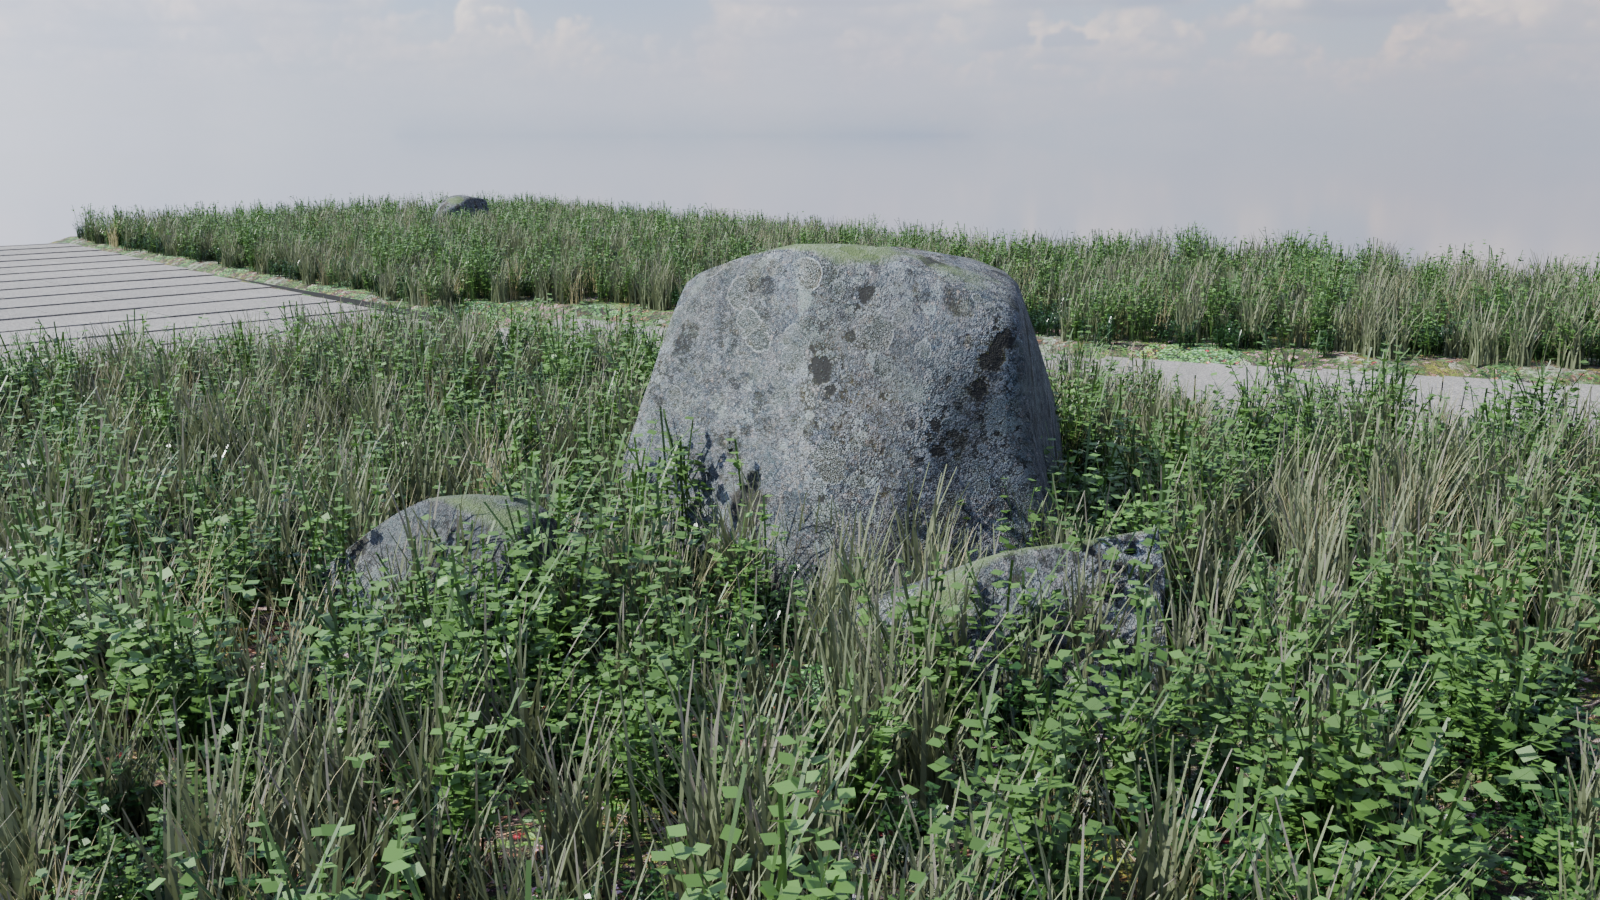
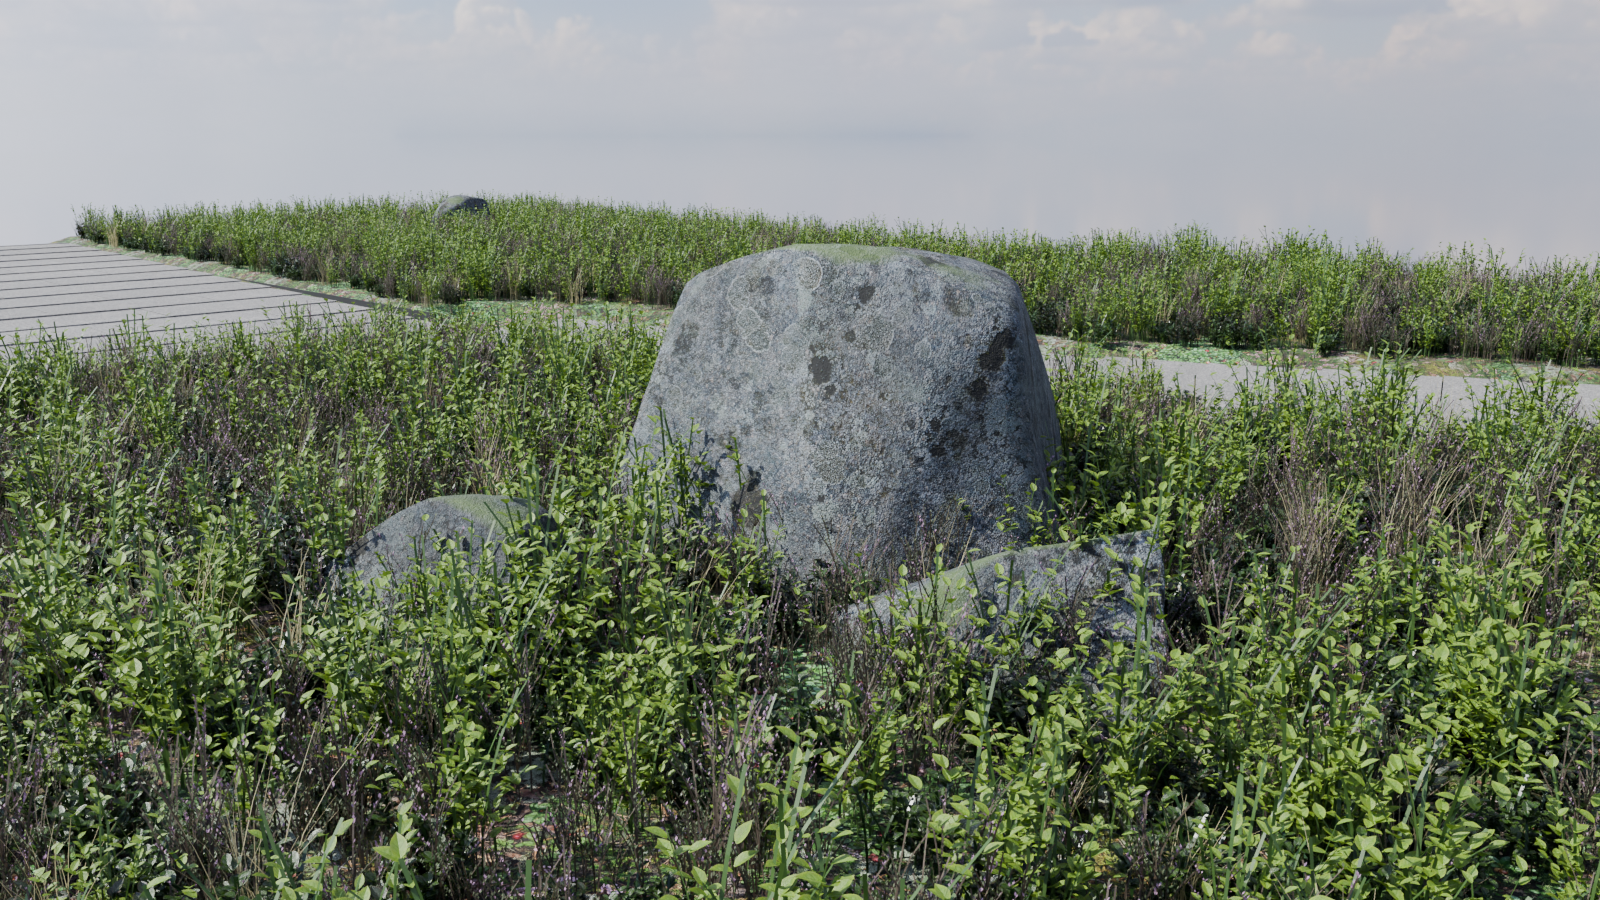
Entrance heath v2 (Roman: "keep going"): lingonberry + blueberry from generated leaf photos (build_leaf_atlas lingon|blueberry), heather as wiry twigs with scale leaves, swale planting without code ferns; ground sampled on the ground meshes (3 min -> ~1 s), birch grove cached
Prompt: nice looking good keep going, the stones look great
Prompt-Time: 2026-11-03T19:00:13.109Z
Session-Id: fd695092-e674-4906-9b7e-e0b2c3caa9eb

diff --git a/plants/out/index.html b/plants/out/index.html
@@ -5,7 +5,7 @@ details{padding:8px 16px;color:#9aa594}pre{white-space:pre-wrap;font-size:13px;m
 main{display:grid;grid-template-columns:repeat(auto-fill,minmax(min(100%,560px),1fr));gap:14px;padding:14px}
 figure{margin:0;background:#1c1f1b;border-radius:6px;overflow:hidden}img{width:100%;display:block}
 figcaption{padding:6px 10px;font-size:12.5px;color:#aab3a4}figcaption b{color:#d8dcd4;font-weight:600}</style>
-<header><h1>plants: 112 images, newest first (refreshes every 20 s; click an image for full size)</h1></header>
+<header><h1>plants: 115 images, newest first (refreshes every 20 s; click an image for full size)</h1></header>
 <details open><summary>Progress log</summary><pre># Plants: progress
 
 Goal and done criteria: GOAL.md. Images: out/index.html.
@@ -123,8 +123,14 @@ Goal and done criteria: GOAL.md. Images: out/index.html.
 - 2026-11-03 11:48 `out/entrance_stones_v001.jpg` Stones v2: faceted glacial granite boulders, generated lichen-granite texture, half buried in clusters
 - 2026-11-03 11:48 `out/entrance_streambed_v001.jpg` Stones v2: the swale&#x27;s dry stream bed, river stones packed on gravel
 - 2026-11-03 11:57 `out/entrance_arrive_v003.jpg` Entrance study B: arrive (new stones, flat forecourt, graded paths)
+- 2026-11-03 12:06 `out/entrance_corner_v002.jpg` Entrance study B: corner (new stones, flat forecourt, graded paths)
+- 2026-11-03 12:08 `out/entrance_heath_v001.jpg` Heath v2: photo-leaf lingonberry + blueberry, wiry heather with scale leaves (no more grass-blade heather)
+- 2026-11-03 12:08 `out/entrance_swale_v001.jpg` Swale v2: stony bed, sedges, lingonberry at the rim
 </pre></details>
-<main><figure><a href="entrance_arrive_v003.jpg"><img src="entrance_arrive_v003.jpg" loading=lazy></a><figcaption><b>entrance_arrive_v003.jpg</b> Entrance study B: arrive (new stones, flat forecourt, graded paths)</figcaption></figure>
+<main><figure><a href="entrance_swale_v001.jpg"><img src="entrance_swale_v001.jpg" loading=lazy></a><figcaption><b>entrance_swale_v001.jpg</b> Swale v2: stony bed, sedges, lingonberry at the rim</figcaption></figure>
+<figure><a href="entrance_heath_v001.jpg"><img src="entrance_heath_v001.jpg" loading=lazy></a><figcaption><b>entrance_heath_v001.jpg</b> Heath v2: photo-leaf lingonberry + blueberry, wiry heather with scale leaves (no more grass-blade heather)</figcaption></figure>
+<figure><a href="entrance_corner_v002.jpg"><img src="entrance_corner_v002.jpg" loading=lazy></a><figcaption><b>entrance_corner_v002.jpg</b> Entrance study B: corner (new stones, flat forecourt, graded paths)</figcaption></figure>
+<figure><a href="entrance_arrive_v003.jpg"><img src="entrance_arrive_v003.jpg" loading=lazy></a><figcaption><b>entrance_arrive_v003.jpg</b> Entrance study B: arrive (new stones, flat forecourt, graded paths)</figcaption></figure>
 <figure><a href="entrance_streambed_v001.jpg"><img src="entrance_streambed_v001.jpg" loading=lazy></a><figcaption><b>entrance_streambed_v001.jpg</b> Stones v2: the swale&#x27;s dry stream bed, river stones packed on gravel</figcaption></figure>
 <figure><a href="entrance_stones_v001.jpg"><img src="entrance_stones_v001.jpg" loading=lazy></a><figcaption><b>entrance_stones_v001.jpg</b> Stones v2: faceted glacial granite boulders, generated lichen-granite texture, half buried in clusters</figcaption></figure>
 <figure><a href="entrance_door_v001.jpg"><img src="entrance_door_v001.jpg" loading=lazy></a><figcaption><b>entrance_door_v001.jpg</b> Entrance study B: door (granite carpet on the real ground, fuller heath)</figcaption></figure>

diff --git a/landscape/entrance_study.py b/landscape/entrance_study.py
@@ -53,7 +53,15 @@ xs, ys = np.arange(X0, X1 + 1e-6, STEP), np.arange(Y0, Y1 + 1e-6, STEP)
 TER = np.full((len(ys), len(xs)), 0.12)
 # rays against the ground meshes only (scene.ray_cast through the whole building took 3+ minutes)
 from mathutils.bvhtree import BVHTree  # noqa: E402
-_trees = [BVHTree.FromObject(bpy.data.objects[n], dg) for n in ("terrain_building", "lawn_ground") if n in bpy.data.objects]
+def _bvh(o):
+    try:
+        return BVHTree.FromObject(o, dg)
+    except ValueError:                                   # (lawn_ground carries the grass GN: use its base mesh)
+        mw = o.matrix_world
+        return BVHTree.FromPolygons([mw @ v.co for v in o.data.vertices], [tuple(p_.vertices) for p_ in o.data.polygons])
+
+
+_trees = [_bvh(bpy.data.objects[n]) for n in ("terrain_building", "lawn_ground") if n in bpy.data.objects]
 for i, y in enumerate(ys):
     for j, x in enumerate(xs):
         best = None
@@ -315,8 +323,8 @@ def proto(name, kind, seed):
     dark leaves; blueberry: taller, bright green; fern: a few arching fronds (the swale)"""
     r = np.random.default_rng(seed)
     V, F, C, LF, UVmap = [], [], [], [], {}
-    leaf_img = f"leaf{1 + seed % 2}"
-    spec = {"heather": (44, (0.14, 0.32), 0.005, 0, (0.12, 0.14, 0.07)), "lingonberry": (24, (0.06, 0.16), 0.0, 9, (0.025, 0.07, 0.018)),
+    leaf_img = "leaf1" if kind == "blueberry" else f"leaf{1 + seed % 2}"      # (the second blueberry leaf read yellow)
+    spec = {"heather": (16, (0.12, 0.26), 0.005, 0, (0.07, 0.09, 0.04)), "lingonberry": (26, (0.06, 0.15), 0.0, 12, (0.025, 0.07, 0.018)),
             "blueberry": (16, (0.2, 0.36), 0.0, 11, (0.07, 0.15, 0.03)), "fern": (8, (0.35, 0.6), 0.0, 14, (0.06, 0.14, 0.03))}[kind]
     n, (h0, h1), sprig_w, leaves, col = spec
     col = np.array(col)
@@ -324,12 +332,30 @@ def proto(name, kind, seed):
         az = r.uniform(0, 2 * math.pi); lean = r.uniform(0.1, 0.5) if kind != "fern" else r.uniform(0.6, 1.1); h = r.uniform(h0, h1)
         base = np.array([r.normal(0, 0.03), r.normal(0, 0.03), 0]); d = np.array([math.cos(az), math.sin(az), 0]); side = np.array([-d[1], d[0], 0])
         pts = [base + d * lean * h * t * t + np.array([0, 0, h * (t - (0.5 if kind == "fern" else 0.2) * lean * t * t)]) for t in np.linspace(0, 1, 5)]
-        if kind == "heather":                                          # a fine sprig, green-grey, the top third flowering
-            for k in range(4):
-                o = len(V); w0, w1 = sprig_w * (1 - 0.2 * k), sprig_w * (1 - 0.2 * (k + 1))
-                V += [pts[k] - side * w0, pts[k] + side * w0, pts[k + 1] + side * w1, pts[k + 1] - side * w1]; F.append([o, o + 1, o + 2, o + 3])
-                c = col if (k < 3 or r.random() > 0.35) else col * 0.75 + np.array([0.3, 0.17, 0.26]) * 0.25 * r.uniform(0.6, 1.2)
-                C += [c] * 4
+        if kind == "heather":                                          # Calluna: a wiry twig + side shoots, clothed in tiny scale leaves
+            twigs = [pts]
+            for _ in range(int(r.integers(2, 4))):                     # side shoots from the lower half
+                k0 = int(r.integers(1, 3)); a2 = az + r.normal(0, 0.9); d2 = np.array([math.cos(a2), math.sin(a2), 0]); h2 = h * r.uniform(0.4, 0.7)
+                b0 = pts[k0]
+                twigs.append([b0 + d2 * 0.35 * h2 * t * t + np.array([0, 0, h2 * t * 0.9]) for t in np.linspace(0, 1, 4)])
+            flower = r.random() < 0.3
+            for tw in twigs:
+                tw = np.array(tw)
+                for k in range(len(tw) - 1):                           # the wood
+                    o = len(V); w = 0.0012
+                    V += [tw[k] - side * w, tw[k] + side * w, tw[k + 1] + side * w, tw[k + 1] - side * w]; F.append([o, o + 1, o + 2, o + 3])
+                    C += [np.array([0.07, 0.05, 0.035])] * 4
+                for q in range(int(26 * len(tw) / 5)):                 # the scale leaves, thick along the upper 75 %
+                    t = r.uniform(0.25, 1.0); seg_ = min(int(t * (len(tw) - 1)), len(tw) - 2); f_ = t * (len(tw) - 1) - seg_
+                    pp = tw[seg_] + (tw[seg_ + 1] - tw[seg_]) * f_
+                    a3 = r.uniform(0, 2 * math.pi); ld = np.array([math.cos(a3), math.sin(a3), 1.4]); ld /= np.linalg.norm(ld)
+                    nr = np.cross(ld, np.array([0, 0, 1.0])); nr /= (np.linalg.norm(nr) + 1e-9)
+                    ll_ = 0.006; lw_ = 0.0016
+                    o = len(V); V += [pp, pp + ld * ll_ * 0.5 + nr * lw_, pp + ld * ll_, pp + ld * ll_ * 0.5 - nr * lw_]; F.append([o, o + 1, o + 2, o + 3])
+                    c = col * r.uniform(0.75, 1.2)
+                    if flower and t > 0.7:
+                        c = np.array([0.36, 0.2, 0.32]) * r.uniform(0.7, 1.1)
+                    C += [c] * 4
             continue
         for k in range(4):                                             # the stem
             o = len(V); w = 0.0025 if kind != "fern" else 0.002
@@ -341,7 +367,7 @@ def proto(name, kind, seed):
                 info = ATLAS[kind][leaf_img]
                 a_ = r.uniform(0, 2 * math.pi)
                 ld = np.array([math.cos(a_), math.sin(a_), r.uniform(0.35, 0.9)]); ld /= np.linalg.norm(ld)
-                ll = {"lingonberry": r.uniform(0.012, 0.02), "blueberry": r.uniform(0.018, 0.03)}[kind]; lw = ll * info["aspect"]
+                ll = {"lingonberry": r.uniform(0.016, 0.026), "blueberry": r.uniform(0.02, 0.032)}[kind]; lw = ll * info["aspect"]
                 bb = np.cross(ld, np.array([0, 0, 1.0])); bb /= (np.linalg.norm(bb) + 1e-9)
                 nn = np.cross(bb, ld)
                 o = len(V); G = 3
@@ -379,17 +405,17 @@ def proto(name, kind, seed):
             UVa[vi] = uvp
         uvl.data.foreach_set("uv", UVa[lv].ravel())
         va = me.attributes.new("var", "FLOAT", "POINT"); va.data.foreach_set("value", r.uniform(-0.8, 0.8, len(V)).astype(np.float32))
-        me.materials.append(pothos_material(leaf_img, ROOT / "plants" / "maps" / ATLAS_DIR[kind], rough=0.3 if kind == "lingonberry" else 0.45, val=0.9, bump=0.0004))
+        me.materials.append(pothos_material(leaf_img, ROOT / "plants" / "maps" / ATLAS_DIR[kind], rough=0.3 if kind == "lingonberry" else 0.45, val=0.85 if kind == "lingonberry" else 0.7, bump=0.0004))
         mi = np.zeros(len(me.polygons), np.int32); mi[nF:] = 1; me.polygons.foreach_set("material_index", mi)
     return o
 
 
 heath_protos = [proto(f"heather_{i}", "heather", i) for i in range(3)] + [proto(f"lingon_{i}", "lingonberry", 10 + i) for i in range(3)] + \
                [proto(f"blueb_{i}", "blueberry", 20 + i) for i in range(2)]
-swale_protos = [proto(f"fern_{i}", "fern", 30 + i) for i in range(3)] + [ground.grass_proto("tuft_meadow_e", "meadow", coll), ground.grass_proto("tuft_dry_e2", "dry", coll)]
+swale_protos = [ground.grass_proto("tuft_meadow_e", "meadow", coll), ground.grass_proto("tuft_dry_e2", "dry", coll)] + heath_protos[3:6]
 bedg = mesh_obj("stream_bed", V + np.array([0, 0, 0.004]), F[in_bed], bc.pbr_material("river_gravel", "river_small_rocks", 1.0, piece_var=0.0, val=0.85))
 for nm, sel, protos, dens in (("heath_plants", cell_free & ~in_swale, heath_protos, 60), ("heath_grass", cell_free & ~in_swale, [ground.grass_proto("tuft_dry_e", "dry", coll)], 3),
-                              ("swale_plants", cell_free & in_swale, swale_protos, 22)):
+                              ("swale_plants", cell_free & in_swale, swale_protos, 40)):
     o = mesh_obj(nm, V2, F[sel], heath.data.materials[0])
     md = o.modifiers.new("plants", "NODES"); md.node_group = ground.grass_nodes("GN_" + nm, protos, dens, seed=len(nm))
 

diff --git a/plants/PROGRESS.md b/plants/PROGRESS.md
@@ -115,3 +115,6 @@ Goal and done criteria: GOAL.md. Images: out/index.html.
 - 2026-11-03 11:48 `out/entrance_stones_v001.jpg` Stones v2: faceted glacial granite boulders, generated lichen-granite texture, half buried in clusters
 - 2026-11-03 11:48 `out/entrance_streambed_v001.jpg` Stones v2: the swale's dry stream bed, river stones packed on gravel
 - 2026-11-03 11:57 `out/entrance_arrive_v003.jpg` Entrance study B: arrive (new stones, flat forecourt, graded paths)
+- 2026-11-03 12:06 `out/entrance_corner_v002.jpg` Entrance study B: corner (new stones, flat forecourt, graded paths)
+- 2026-11-03 12:08 `out/entrance_heath_v001.jpg` Heath v2: photo-leaf lingonberry + blueberry, wiry heather with scale leaves (no more grass-blade heather)
+- 2026-11-03 12:08 `out/entrance_swale_v001.jpg` Swale v2: stony bed, sedges, lingonberry at the rim
